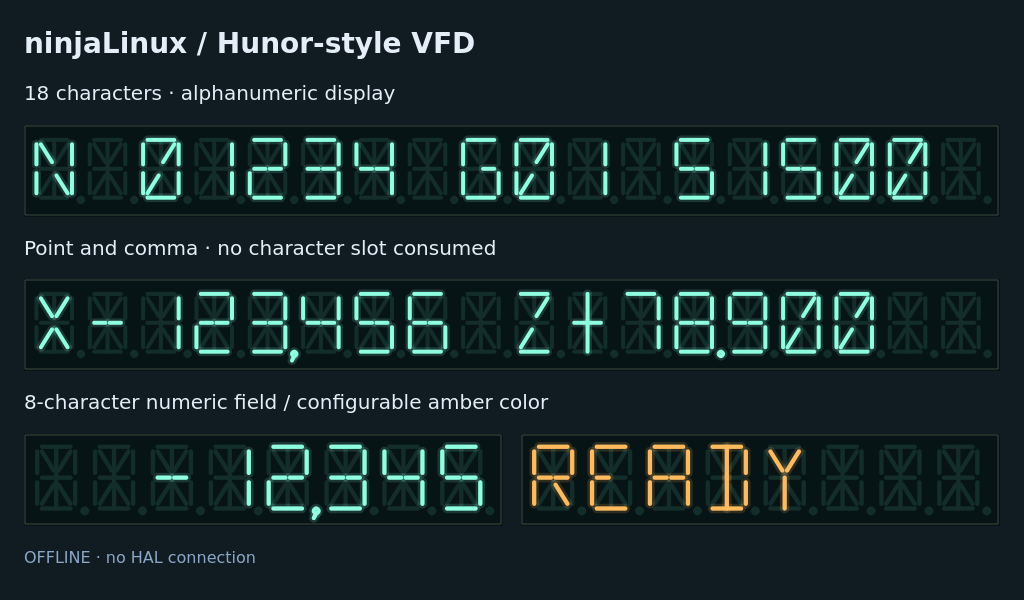
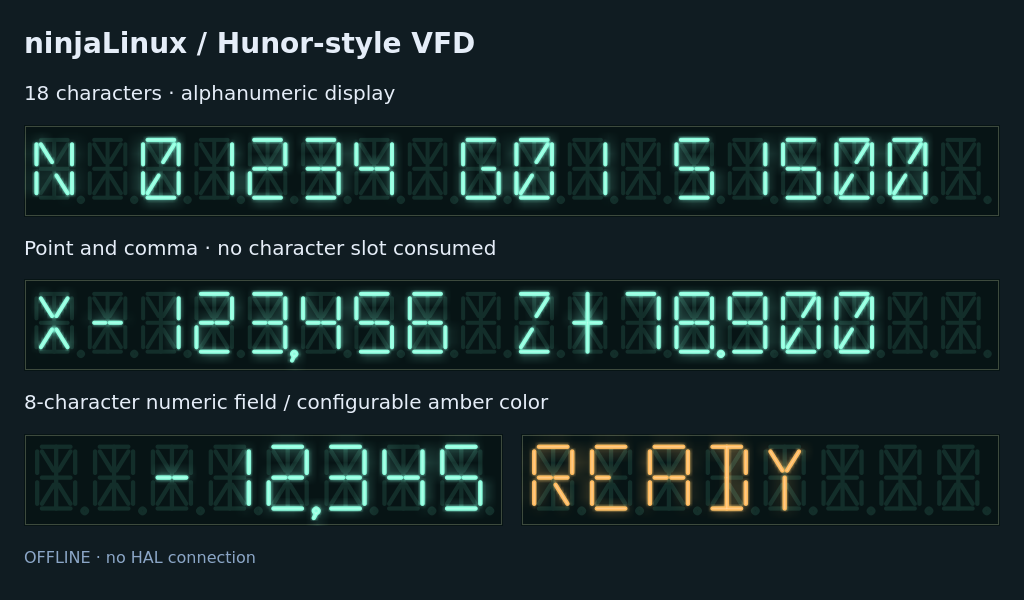
Render cached VFD bloom with adjustable radius and strength

diff --git a/ui-tools/ninjaui/vfd.py b/ui-tools/ninjaui/vfd.py
@@ -49,6 +49,7 @@ class VfdDisplay(QWidget):
         self._separator = '.'
         self._connected, self._right, self._glow = True, False, True
         self._brightness, self._pin = 100, ''
+        self._glow_radius, self._glow_strength = 6.0, 70
         self._foreground = QColor('#8effdf')
         self._background = QColor('#071415')
         self._off_color = QColor('#132e2a')
@@ -120,6 +121,17 @@ class VfdDisplay(QWidget):
     def setGlow(self, value):
         self._set('_glow', bool(value))
 
+    @Slot(float)
+    def setGlowRadius(self, value):
+        value = float(value)
+        if not math.isfinite(value):
+            raise ValueError('Glow radius must be finite')
+        self._set('_glow_radius', max(0.0, min(24.0, value)))
+
+    @Slot(int)
+    def setGlowStrength(self, value):
+        self._set('_glow_strength', max(0, min(100, int(value))))
+
     @Slot(int)
     def setBrightness(self, value):
         self._set('_brightness', max(0, min(100, int(value))))
@@ -154,6 +166,8 @@ class VfdDisplay(QWidget):
     connected = Property(bool, lambda s: s._connected, setConnected)
     rightAligned = Property(bool, lambda s: s._right, setRightAligned)
     glow = Property(bool, lambda s: s._glow, setGlow)
+    glowRadius = Property(float, lambda s: s._glow_radius, setGlowRadius)
+    glowStrength = Property(int, lambda s: s._glow_strength, setGlowStrength)
     brightness = Property(int, lambda s: s._brightness, setBrightness)
     halPin = Property(str, lambda s: s._pin, setHalPin)
     foregroundColor = Property(QColor, lambda s: QColor(s._foreground), setForegroundColor)
@@ -171,38 +185,69 @@ class VfdDisplay(QWidget):
         padding = [(' ', False)]*(self._count-len(cells))
         return padding+cells if self._right else cells+padding
 
-    def _render(self, pixmap):
-        painter = QPainter(pixmap)
-        painter.setRenderHint(QPainter.RenderHint.Antialiasing)
-        painter.fillRect(self.rect(), self._background)
-        painter.setPen(QColor('#3d4a3d'))
-        painter.drawRect(self.rect().adjusted(1, 1, -2, -2))
+    def _draw_strokes(self, painter, color, width, active_only):
         cell_width = max(1, self.width()-16)/self._count
         scale = min(cell_width/24, max(1, self.height()-16)/32)
-        lit = QColor(self._foreground if self._connected else '#81958f')
-        lit.setAlphaF(self._brightness/100)
+        painter.setRenderHint(QPainter.RenderHint.Antialiasing)
         for index, (char, dot) in enumerate(self.displayCells()):
             painter.save()
             painter.translate(8+index*cell_width+(cell_width-24*scale)/2, (self.height()-32*scale)/2)
             painter.scale(scale, scale)
-            # A soft two-stroke halo avoids a per-frame blur/graphics effect.
-            passes = [(self._off_color, 1.8, False)]
-            if self._glow:
-                halo = QColor(lit)
-                halo.setAlphaF(lit.alphaF()*.15)
-                passes.append((halo, 4.0, True))
-            passes.append((lit, 1.8, True))
-            for color, width, active_only in passes:
-                pen = QPen(color, width, Qt.PenStyle.SolidLine, Qt.PenCapStyle.RoundCap)
-                painter.setPen(pen)
-                for name, (x1, y1, x2, y2) in SEGMENTS.items():
-                    if not active_only or name in GLYPHS[char]:
-                        painter.drawLine(x1, y1, x2, y2)
-                if not active_only or dot:
-                    painter.drawEllipse(21, 28, 2, 2)
-                    if dot == ',':
-                        painter.drawLine(22, 30, 21, 32)
+            painter.setPen(QPen(color, width, Qt.PenStyle.SolidLine, Qt.PenCapStyle.RoundCap))
+            for name, (x1, y1, x2, y2) in SEGMENTS.items():
+                if not active_only or name in GLYPHS[char]:
+                    painter.drawLine(x1, y1, x2, y2)
+            if not active_only or dot:
+                painter.drawEllipse(21, 28, 2, 2)
+                if dot == ',':
+                    painter.drawLine(22, 30, 21, 32)
             painter.restore()
+
+    @staticmethod
+    def _soften(image, radius):
+        # Two smooth resamples approximate a soft bloom in native Qt code.
+        # No Python pixel loops, graphics scene or continuously running effect.
+        divisor = max(1.0, radius*image.devicePixelRatioF())
+        small = image.scaled(max(1, round(image.width()/divisor)),
+                             max(1, round(image.height()/divisor)),
+                             Qt.AspectRatioMode.IgnoreAspectRatio,
+                             Qt.TransformationMode.SmoothTransformation)
+        return small.scaled(image.size(), Qt.AspectRatioMode.IgnoreAspectRatio,
+                            Qt.TransformationMode.SmoothTransformation)
+
+    def _render(self, pixmap):
+        painter = QPainter(pixmap)
+        painter.fillRect(self.rect(), self._background)
+        painter.setPen(QColor('#3d4a3d'))
+        painter.drawRect(self.rect().adjusted(1, 1, -2, -2))
+        self._draw_strokes(painter, self._off_color, 1.8, False)
+        lit = QColor(self._foreground if self._connected else '#81958f')
+        lit.setAlphaF(self._brightness/100)
+        bloom = self._glow and self._glow_radius > 0 and self._glow_strength > 0
+        if bloom:
+            emitter = QPixmap(pixmap.size())
+            emitter.setDevicePixelRatio(pixmap.devicePixelRatioF())
+            emitter.fill(Qt.GlobalColor.transparent)
+            light = QPainter(emitter)
+            self._draw_strokes(light, lit, 1.8, True)
+            light.end()
+            strength = self._glow_strength/100
+            painter.setCompositionMode(QPainter.CompositionMode.CompositionMode_Plus)
+            for radius, opacity in ((self._glow_radius*2, .65), (self._glow_radius/2, 1.0)):
+                painter.setOpacity(strength*opacity)
+                painter.drawPixmap(0, 0, self._soften(emitter, radius))
+            painter.setOpacity(1.0)
+            painter.setCompositionMode(QPainter.CompositionMode.CompositionMode_SourceOver)
+        self._draw_strokes(painter, lit, 1.8, True)
+        if bloom:
+            # A narrow, paler phosphor core gives the strokes depth without
+            # brightening unlit segments. Brightness=0 also extinguishes this.
+            core = QColor(lit)
+            core.setRedF(core.redF()*.48+.52)
+            core.setGreenF(core.greenF()*.48+.52)
+            core.setBlueF(core.blueF()*.48+.52)
+            core.setAlphaF(lit.alphaF()*.65*self._glow_strength/100)
+            self._draw_strokes(painter, core, .65, True)
         painter.end()
 
     def paintEvent(self, event):

diff --git a/ui-tools/tests/test_vfd.py b/ui-tools/tests/test_vfd.py
@@ -86,6 +86,42 @@ class VfdTests(unittest.TestCase):
         self.assertEqual(widget.displayCells()[:7], text_cells('NO DATA'))
         self.assertEqual(widget.accessibleDescription(), 'No data')
 
+    def test_glow_spreads_light_and_extinguishes_at_zero_brightness(self):
+        widget = VfdDisplay(); widget.resize(400, 120); widget.setCharacterCount(4)
+        widget.setText('11'); widget.setGlow(False)
+        flat = widget.grab().toImage()
+        widget.setGlow(True)
+        glowing = widget.grab().toImage()
+        self.assertNotEqual(flat, glowing)
+        background = widget.backgroundColor.rgb()
+        spread = 0
+        for y in range(flat.height()):
+            for x in range(flat.width()):
+                if flat.pixelColor(x, y).rgb() == background:
+                    before, after = flat.pixelColor(x, y), glowing.pixelColor(x, y)
+                    if after.red()+after.green()+after.blue() > before.red()+before.green()+before.blue():
+                        spread += 1
+        self.assertGreater(spread, 50)
+        widget.setGlowStrength(0)
+        self.assertEqual(flat, widget.grab().toImage())
+        widget.setGlowStrength(70); widget.setBrightness(0)
+        dark_glow = widget.grab().toImage()
+        widget.setGlow(False)
+        self.assertEqual(dark_glow, widget.grab().toImage())
+
+    def test_glow_properties_invalidate_cache_and_validate_radius(self):
+        widget = VfdDisplay(); widget.resize(400, 100); widget.grab()
+        self.assertIsNotNone(widget._cache)
+        self.assertTrue(widget.setProperty('glowRadius', 9.0))
+        self.assertEqual(widget.glowRadius, 9.0)
+        self.assertIsNone(widget._cache)
+        widget.grab(); widget.setGlowStrength(50)
+        self.assertIsNone(widget._cache)
+        widget.setGlowRadius(99); self.assertEqual(widget.glowRadius, 24.0)
+        widget.setGlowRadius(-1); self.assertEqual(widget.glowRadius, 0.0)
+        widget.setGlowStrength(999); self.assertEqual(widget.glowStrength, 100)
+        with self.assertRaises(ValueError): widget.setGlowRadius(float('nan'))
+
     def test_designer_loads_all_vfd_properties(self):
         try:
             from PySide6.QtUiTools import QUiLoader

diff --git a/ui-tools/README.hu.md b/ui-tools/README.hu.md
@@ -132,7 +132,8 @@ OpenGL, külön betűkészlet, szimulátor vagy vezérlőhardver.
 | `decimalSeparator` | `.` vagy `,` a számformázáshoz; alapból `.` |
 | `rightAligned` | Jobbra igazítás a rögzített szélességű karakterbankban |
 | `foregroundColor`, `backgroundColor`, `offColor` | Aktív szegmensek, kijelzőüveg és inaktív szegmensek színe |
-| `brightness`, `glow` | 0–100 fényerő és választható fényudvar |
+| `brightness`, `glow` | 0–100 kibocsátott fényerő és a derengés kapcsolója |
+| `glowRadius`, `glowStrength` | A fényudvar mérete logikai pixelben (0–24, alapból 6), erőssége (0–100, alapból 70) |
 | `connected`, `halPin` | Adathiányjelzés és választható numerikus pinolvasás |
 | `overflow` | Csak olvasható: az adat túlnyúlik a rendelkezésre álló karakterhelyeken |
 
@@ -146,6 +147,16 @@ A hosszú szöveg levágódik, `overflow=True` mellett. Adathiánykor `NO DATA`,
 hétnél rövidebb banknál vonalak jelennek meg. A referencia `:` karaktere
 homokóra, nem szokásos kettőspont; ez nem az eredeti Hunor karakter-PROM másolata.
 A `setText(str)` és `setValue(float)` Qt-slotként is elérhető.
+
+A derengést egy széles színes fényudvar, egy szűkebb fényréteg és világosabb
+szegmensmag adja. A Qt simított képméretezése csak a világító vonalakat,
+pontokat és vesszőket lágyítja. Az eredmény a kész képpel együtt gyorsítótárba
+kerül; csak adat-, megjelenés-, méret- vagy képernyőskála-változáskor számolódik
+újra. Nem került bele animációs időzítő vagy folyamatos elmosási effektus.
+A `brightness=0` az összes kibocsátott fényt kioltja. `glow=False`, nulla sugár
+vagy nulla erősség esetén a lapos megjelenés látszik. Kiindulásnak 6-os sugár
+és 70-es erősség ajánlott. A PC-s és nagy DPI-s rajzolást ellenőriztük;
+a Pi-n jelentkező rajzolási költséget még nem mértük.
 
 Az export és a Pi-s indítás megegyezik a többi forméval. A választható HAL-olvasó
 számkijelzőként kezeli; kimenetvezérlés ezzel sem kerül bele.
@@ -218,7 +229,7 @@ python -m unittest discover -s tests
 ```
 
 Ellenőrzés 2026-10-31-én, Linux/amd64, Python 3.13, PC-s PySide6 6.11.2:
-19 sikeres teszt, tényleges generált UI-/erőforrás-futtatással,
+21 sikeres teszt, tényleges generált UI-/erőforrás-futtatással,
 Designer-regisztrációval és formbetöltéssel, beviteli/tartási próbával, VFD-karakter/pont/vessző/formázás/gyorsítótár
 ellenőrzésével és ál-HAL-adatok hibakezelésével. A Designer offscreen módban megnyitotta a formot.
 A panel a gép PySide6 6.8.2.1 környezetével is exportálható és futott.

diff --git a/ui-tools/README.md b/ui-tools/README.md
@@ -125,7 +125,8 @@ OpenGL, a font asset, the simulator or controller hardware. [Origin notes](VFD-O
 | `decimalSeparator` | `.` or `,` for numeric formatting; default `.` |
 | `rightAligned` | Align the content to the right of the fixed-width bank |
 | `foregroundColor`, `backgroundColor`, `offColor` | Active strokes, glass and inactive strokes |
-| `brightness`, `glow` | 0–100 intensity and optional soft halo |
+| `brightness`, `glow` | 0–100 emission intensity and bloom on/off |
+| `glowRadius`, `glowStrength` | Halo extent in logical pixels (0–24, default 6) and strength (0–100, default 70) |
 | `connected`, `halPin` | Missing-data indication and optional existing-runtime numeric pin |
 | `overflow` | Read-only: content exceeds the available cells |
 
@@ -138,6 +139,16 @@ number. Overlong literal text is clipped, with `overflow=True`. Disconnection sh
 `NO DATA` (dashes on banks shorter than seven cells). The reference's `:` glyph
 is an hourglass, not a conventional colon; this is not an original Hunor PROM dump.
 The class exposes `setText(str)` and `setValue(float)` as Qt slots.
+
+The glow combines a broad colored bloom, a tighter halo and a paler segment
+core. Qt smooth image resampling softens only the active strokes, including
+points and commas. This is cached with the final image and recalculated only
+when the content, appearance, size or display scale changes; no animation timer
+or continuously running blur effect is added. `brightness=0` extinguishes the
+emitted light. `glow=False`, zero radius or zero strength gives the flat style.
+Start with radius 6 and strength 70; increase gently for a softer appearance.
+PC rendering was checked, including high-DPI output; Pi rendering cost has not
+been measured.
 
 Export and Pi launch use the same commands as the other forms. The optional
 HAL reader treats it as a numeric readout. No output control is added.
@@ -209,7 +220,7 @@ python -m unittest discover -s tests
 ```
 
 Validated on 2026-10-31 with Linux/amd64, Python 3.13 and PC PySide6 6.11.2:
-19 tests passed, including actual generated UI/resource execution, Designer
+21 tests passed, including actual generated UI/resource execution, Designer
 registration/form loading, input/hold behavior, VFD glyph/point/comma/formatting/cache behavior and fake-HAL stale data.
 The Designer opened the supplied form in the offscreen backend. The panel was
 also exported/run with the host's PySide6 6.8.2.1. Screenshots of both panel pages and the VFD showcase

diff --git a/ui-tools/AGENTS.md b/ui-tools/AGENTS.md
@@ -47,7 +47,9 @@ public toolkit.
 VFD-specific additions belong in ninjaui/vfd.py and are re-exported through
 ninjaui.widgets to preserve the same Designer header. Keep the independent
 point/comma behavior, finite-value validation, visible numeric overflow and
-paint-cache invalidation covered by tests. Preserve VFD-ORIGIN.md attribution;
+paint-cache invalidation covered by tests. Glow must stay cached, include
+point/comma emission and vanish at zero brightness; test high-DPI rendering
+when changing its compositing or scaling. Preserve VFD-ORIGIN.md attribution;
 do not claim the approximation is the original Hunor character ROM.
 
 ## HAL boundary
